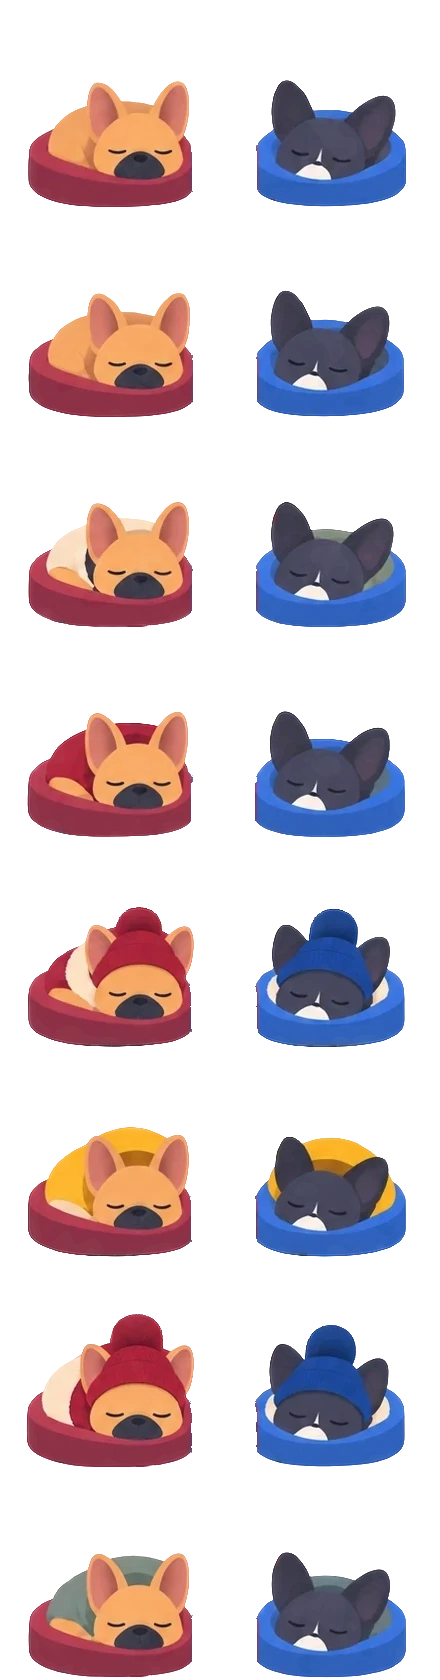
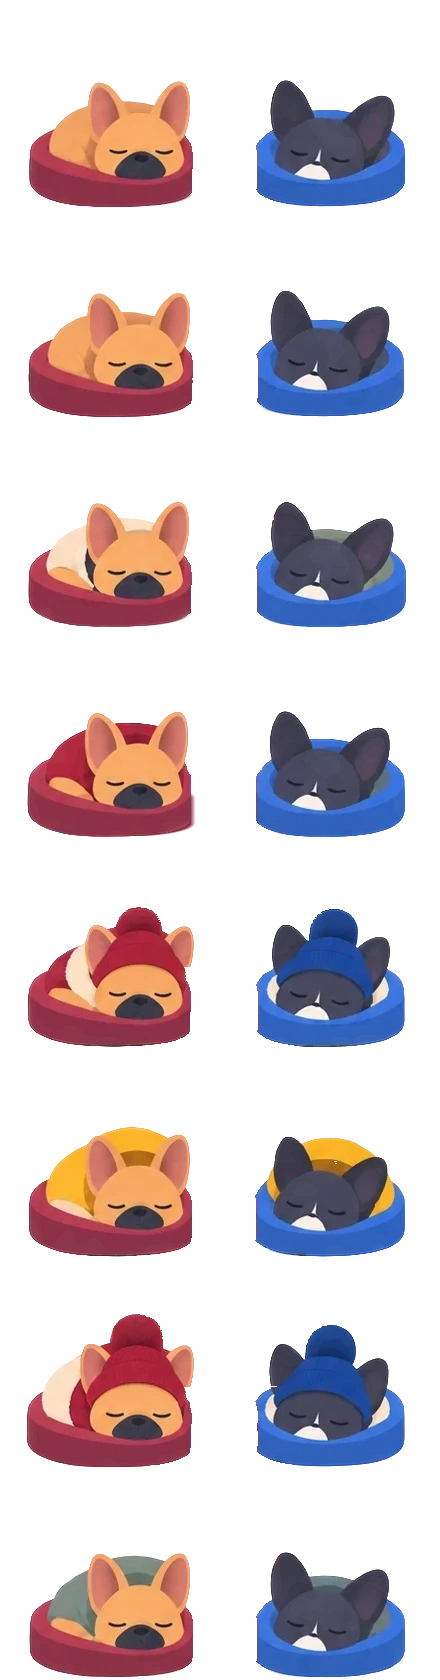
Geometrisk: hela blå bädden och sovande hundar närmare varandra (förslag)
Agent: Claude
Claude-Session: https://claude.ai/code/session_01Cu2PzoUmTvqaxKD8Xm5WSv

diff --git a/app.js b/app.js
@@ -3293,6 +3293,7 @@ function figSvg(sc,o){o=o||{};const id='fg'+(++FIG_N),ph=sc.phase,dark=sc.dark,w
   if(pos==='c')tr=lie?'translate(26 4)':(isA?'translate(29 6) scale(.95)':'translate(25 0)');
   else if(lie)tr=pos==='l'?'translate(-8 '+(isA?14:8)+') scale('+(isA?.8:.85)+')':'translate('+(isA?82:76)+' '+(isA?14:8)+') scale('+(isA?.8:.85)+')';
   else tr=pos==='l'?(isA?'translate(4 6) scale(.9)':'translate(4 0)'):(isA?'translate(64 6) scale(.9)':'translate(58 0)');
+  if(lie&&WXART==='geo'&&pos!=='c')tr=tr.replace(/translate\(([-\d.]+)/,(m,x)=>'translate('+(+x+(pos==='l'?17:-17)));// geo: de mindre sovbäddarna ligger nära varandra
   // på gräsplätten flyttas varje hund ned så att tassarna (eller magen när den ligger) vilar mitt på gräset
   if(o.patch){const m=/translate\(([-\d.]+) ([-\d.]+)\)(?: scale\(([\d.]+)\))?/.exec(tr),k=m&&m[3]?+m[3]:1;if(m)tr='translate('+m[1]+' '+(132-k*123.4).toFixed(1)+')'+(m[3]?' scale('+m[3]+')':'')}
   return'<g class="dog-'+(isA?'a':'b')+'" transform="'+tr+'">'+g+'</g>'};

diff --git a/verktyg/sovbaddar.py b/verktyg/sovbaddar.py
@@ -16,9 +16,9 @@ for k,f in enumerate(range(1,16,2)):
     sub=im[y0:y1,x0:x1];R,G,B,A=[sub[...,q] for q in range(4)];hw,ww=A.shape
     seam=np.interp(np.arange(hw),[p[1] for p in SEAMS[f]],[p[0] for p in SEAMS[f]])+cx-x0
     side=(np.arange(ww)[None,:]>seam[:,None]).astype(int)
-    red=(R>G+60)&(R>B+25);blue=(B>R+40)&(B>G+15)
+    red=(R>G+60)&(R>B+25)&(G<90);blue=(B>R+40)&(B>G+15)
     # vattendelare från bäddarna: röd bädd/kläder = hund 0, blå = hund 1, genomskinligt = bakgrund
-    mk=np.zeros((hw,ww),np.int32);mk[red&(A>200)&(side==0)]=1;mk[blue&(A>200)&(side==1)]=2;mk[A<5]=3
+    mk=np.zeros((hw,ww),np.int32);far=np.abs(np.arange(ww)[None,:]-seam[:,None])>25;mk[far&(A>200)]=1+side[far&(A>200)];mk[red&(A>200)]=1;mk[blue&(A>200)]=2;mk[A<5]=3
     ws=cv2.watershed(np.ascontiguousarray(sub[...,:3].astype(np.uint8)),mk)
     lab=np.where(ws==1,0,np.where(ws==2,1,side))
     for d in (0,1):
@@ -26,24 +26,28 @@ for k,f in enumerate(range(1,16,2)):
         n,cc,st,_=cv2.connectedComponentsWithStats(m,connectivity=8)
         big=1+np.argmax(st[1:,4]);keep=np.isin(cc,[q for q in range(1,n) if q==big or (st[q,4]>40 and abs(np.median(np.where(cc==q)[1])-np.median(np.where(cc==big)[1]))<90)])
         a=np.where(keep,A,0);img=sub.copy()
-        if d==0:  # grannens bädd skymmer högra änden av den röda bädden: rundas efter en ellips anpassad till bäddens underkant
-            bm=(keep&red).astype(np.uint8);cs,_=cv2.findContours(bm,cv2.RETR_EXTERNAL,cv2.CHAIN_APPROX_NONE);P=max(cs,key=len)[:,0]
-            xr=P[:,0].max();yb=np.median(P[:,1]);Q=P[(P[:,1]>yb)&(P[:,0]<xr-22)]
-            (ex,ey),(ea,eb),ang=cv2.fitEllipse(Q.astype(np.float32))
-            t=np.deg2rad(ang);Yg,Xg=np.mgrid[0:hw,0:ww];u=(Xg-ex)*np.cos(t)+(Yg-ey)*np.sin(t);v=-(Xg-ex)*np.sin(t)+(Yg-ey)*np.cos(t)
-            rr=np.sqrt((u/(ea/2))**2+(v/(eb/2))**2);inside=np.clip((1-rr)*ea/2+.5,0,1)
-            sw=inside.copy()
-            for s_ in range(1,26):sw[:-s_]=np.maximum(sw[:-s_],inside[s_:])  # bädden är en låg cylinder: svep ellipsen uppåt
-            inside=sw
-            for yv in range(hw):
-                row=np.where(keep[yv]&(a[yv]>200))[0]
-                if not len(row):continue
-                x0r=row.max()
-                if not red[yv,x0r-2]:continue
-                for xv in range(x0r+1,min(ww,xr+14)):
-                    al=inside[yv,xv]
-                    if al<=0:break
-                    img[yv,xv]=sub[yv,x0r-2];a[yv,xv]=int(255*al)
+        # bäddarna skymmer varandras ändar där de möts: röda bäddens högra och blå bäddens vänstra ände rundas
+        # efter en ellips anpassad till bäddens underkant (svept uppåt, bädden är en låg cylinder)
+        bc=red if d==0 else blue;sg=1 if d==0 else -1
+        bm=(keep&bc).astype(np.uint8);cs,_=cv2.findContours(bm,cv2.RETR_EXTERNAL,cv2.CHAIN_APPROX_NONE);P=max(cs,key=len)[:,0]
+        xe=P[:,0].max() if sg>0 else P[:,0].min();yb=np.median(P[:,1]);Q=P[(P[:,1]>yb)&(sg*(xe-P[:,0])>22)]
+        (ex,ey),(ea,eb),ang=cv2.fitEllipse(Q.astype(np.float32))
+        t=np.deg2rad(ang);Yg,Xg=np.mgrid[0:hw,0:ww];u=(Xg-ex)*np.cos(t)+(Yg-ey)*np.sin(t);v=-(Xg-ex)*np.sin(t)+(Yg-ey)*np.cos(t)
+        rr=np.sqrt((u/(ea/2))**2+(v/(eb/2))**2);inside=np.clip((1-rr)*ea/2+.5,0,1)
+        sw=inside.copy()
+        for s_ in range(1,26):sw[:-s_]=np.maximum(sw[:-s_],inside[s_:])
+        inside=sw
+        for yv in range(hw):
+            row=np.where(keep[yv]&(a[yv]>0))[0]
+            if not len(row):continue
+            bed=np.where(keep[yv]&bc[yv]&(A[yv]>200))[0]
+            if not len(bed):continue
+            xb=bed.max() if sg>0 else bed.min()
+            if abs(xb-(row.max() if sg>0 else row.min()))>6:continue  # något annat än bädden (öra, mössa) är ytterst
+            for xv in range(xb+sg,xb+sg*30,sg):  # ta bort grannens kantpixlar och rita bädden vidare till ellipsen
+                if not 0<=xv<ww:break
+                al=max(inside[yv,xv],1.0 if sg*(xb-xv)>=0 else 0);a[yv,xv]=int(255*al) if al>0 else 0
+                if al>0:img[yv,xv]=sub[yv,xb-2*sg]
         ys,xs=np.where(a>20);bx=(xs.min()+xs.max())/2;by=ys.max()
         ox=int(round(W/2-bx));oy=H-4-by
         cell=np.zeros((H,W,4),np.int32);

diff --git a/OVERLAMNING.md b/OVERLAMNING.md
@@ -20,7 +20,7 @@ Claude och Codex: läs AGENTS.md och denna fil. Repot är gemensamt minne; läs 
 ## Väntar på Henrik: mindre sovande hundar · gren claude/project-thread-8oongl
 
 - Claude. Henrik 2026-11-02: sovande hund och bädd för stora, grannens röda bäddkant syns vid blå bädd, bäddarna klipps i kanterna. Orsak: liggrutorna i hundarket är bredare än sina celler och bäddarna nuddar varandra.
-- Åtgärd: eget ark `sleep-v1.webp` (verktyg/sovbaddar.py: delar paret efter bäddfärg med vattendelare, rundar röda bäddens skymda ände) och `geoSleepSvg` i 75 % storlek. Förhandsbild /mnt/project-files/geo-forslag/9-sovande-fore-efter.png. Väntar på ”Pusha” (då version.js, ångra-gren).
+- Åtgärd: eget ark `sleep-v1.webp` (verktyg/sovbaddar.py: delar paret efter bäddfärg med vattendelare, rundar röda bäddens skymda ände) och `geoSleepSvg` i 75 % storlek; i geo flyttas liggande hundar 17 enheter närmare varandra (`one` i figSvg). Omgång 2 (Henrik: för långt isär, blå bäddens vänsterkant klippt): vattendelaren märker bäddfärg oavsett söm. Bild /mnt/project-files/geo-forslag/10-sovande-v2.png. Väntar på ”Pusha” (då version.js, ångra-gren).
 
 ## Börja här
 
